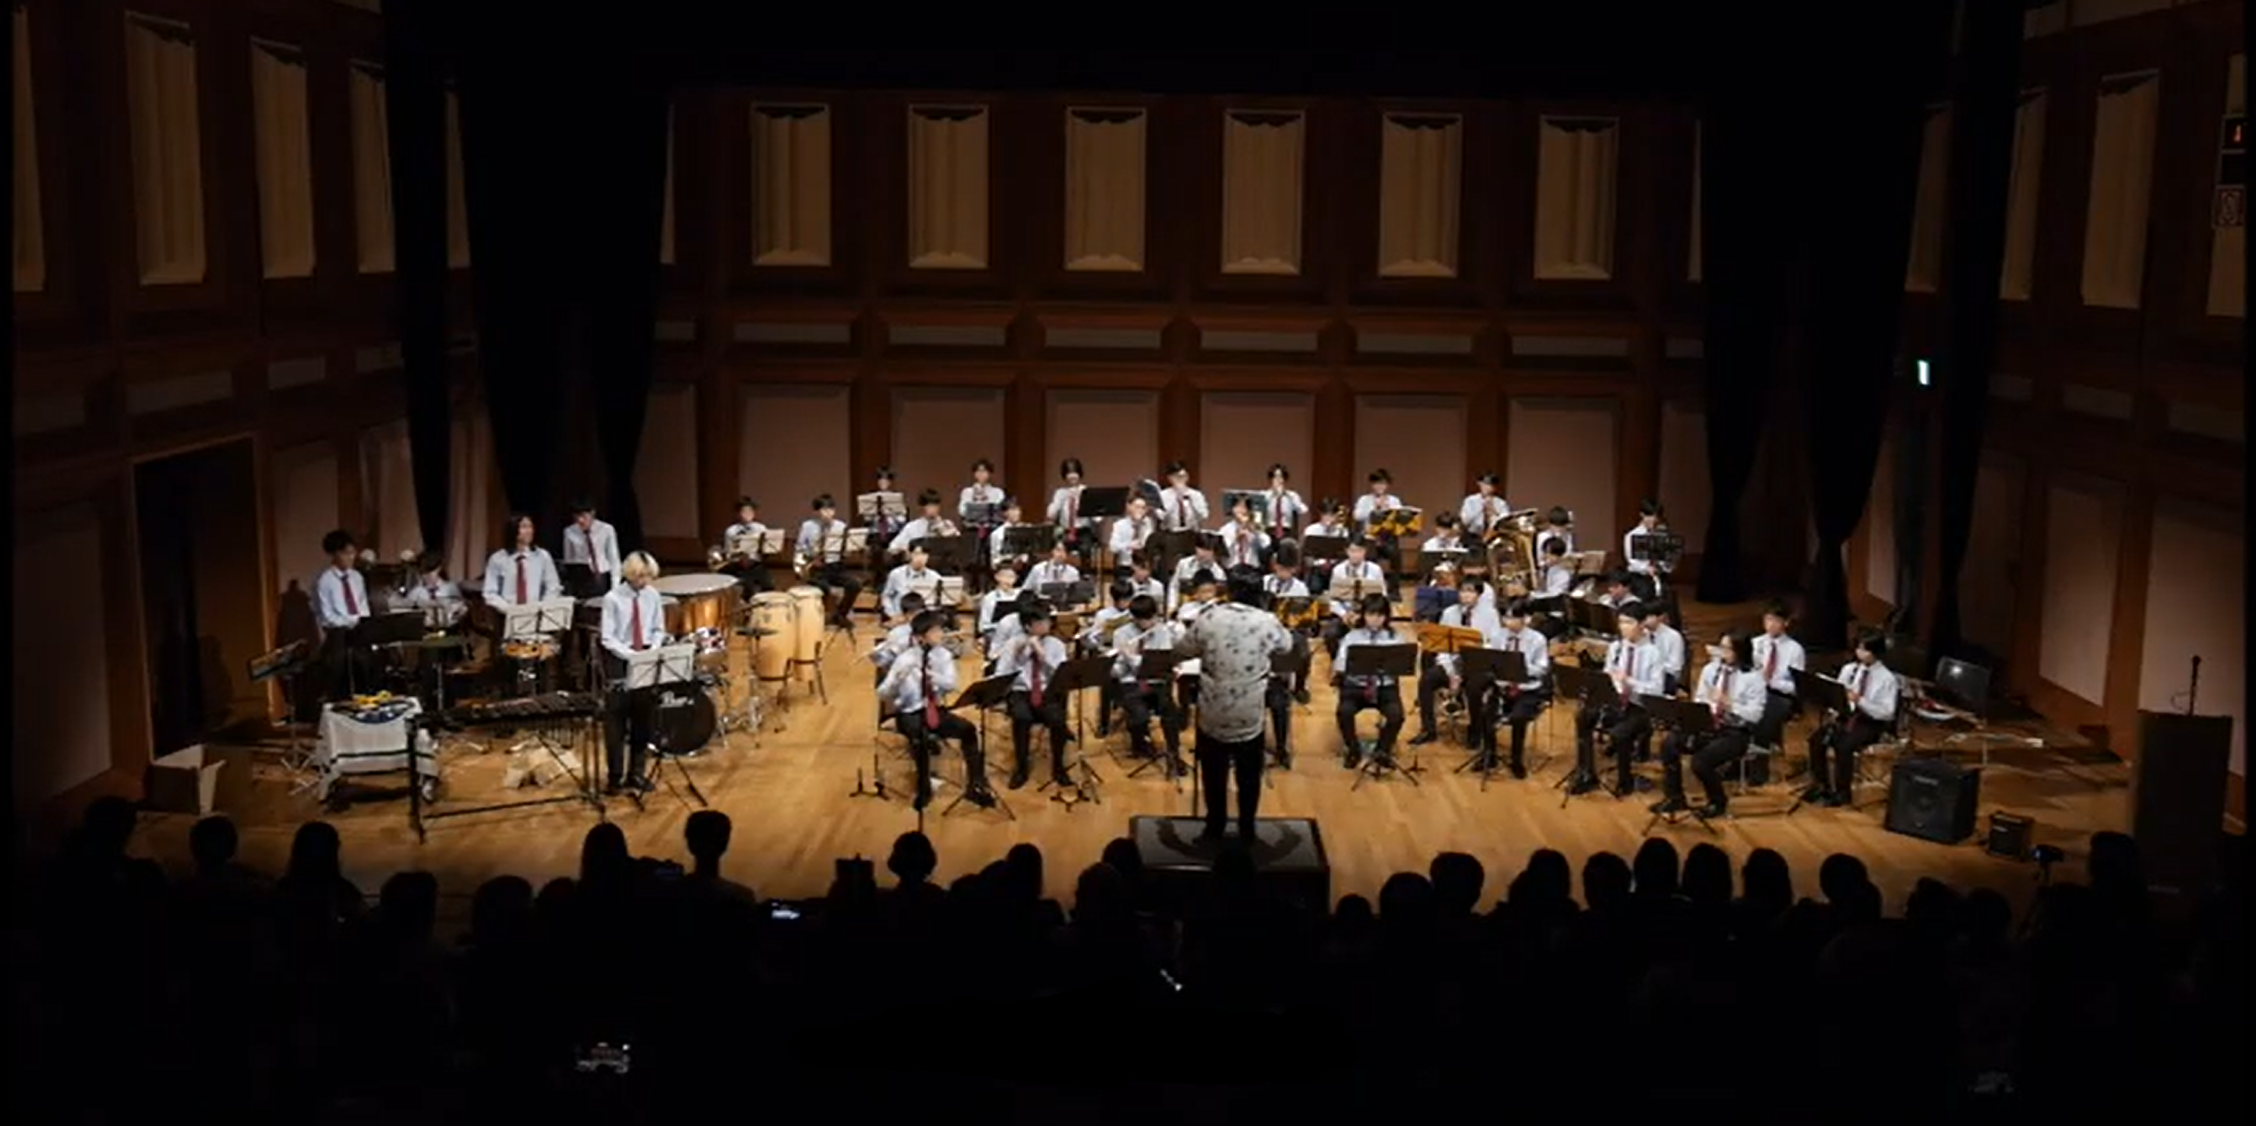
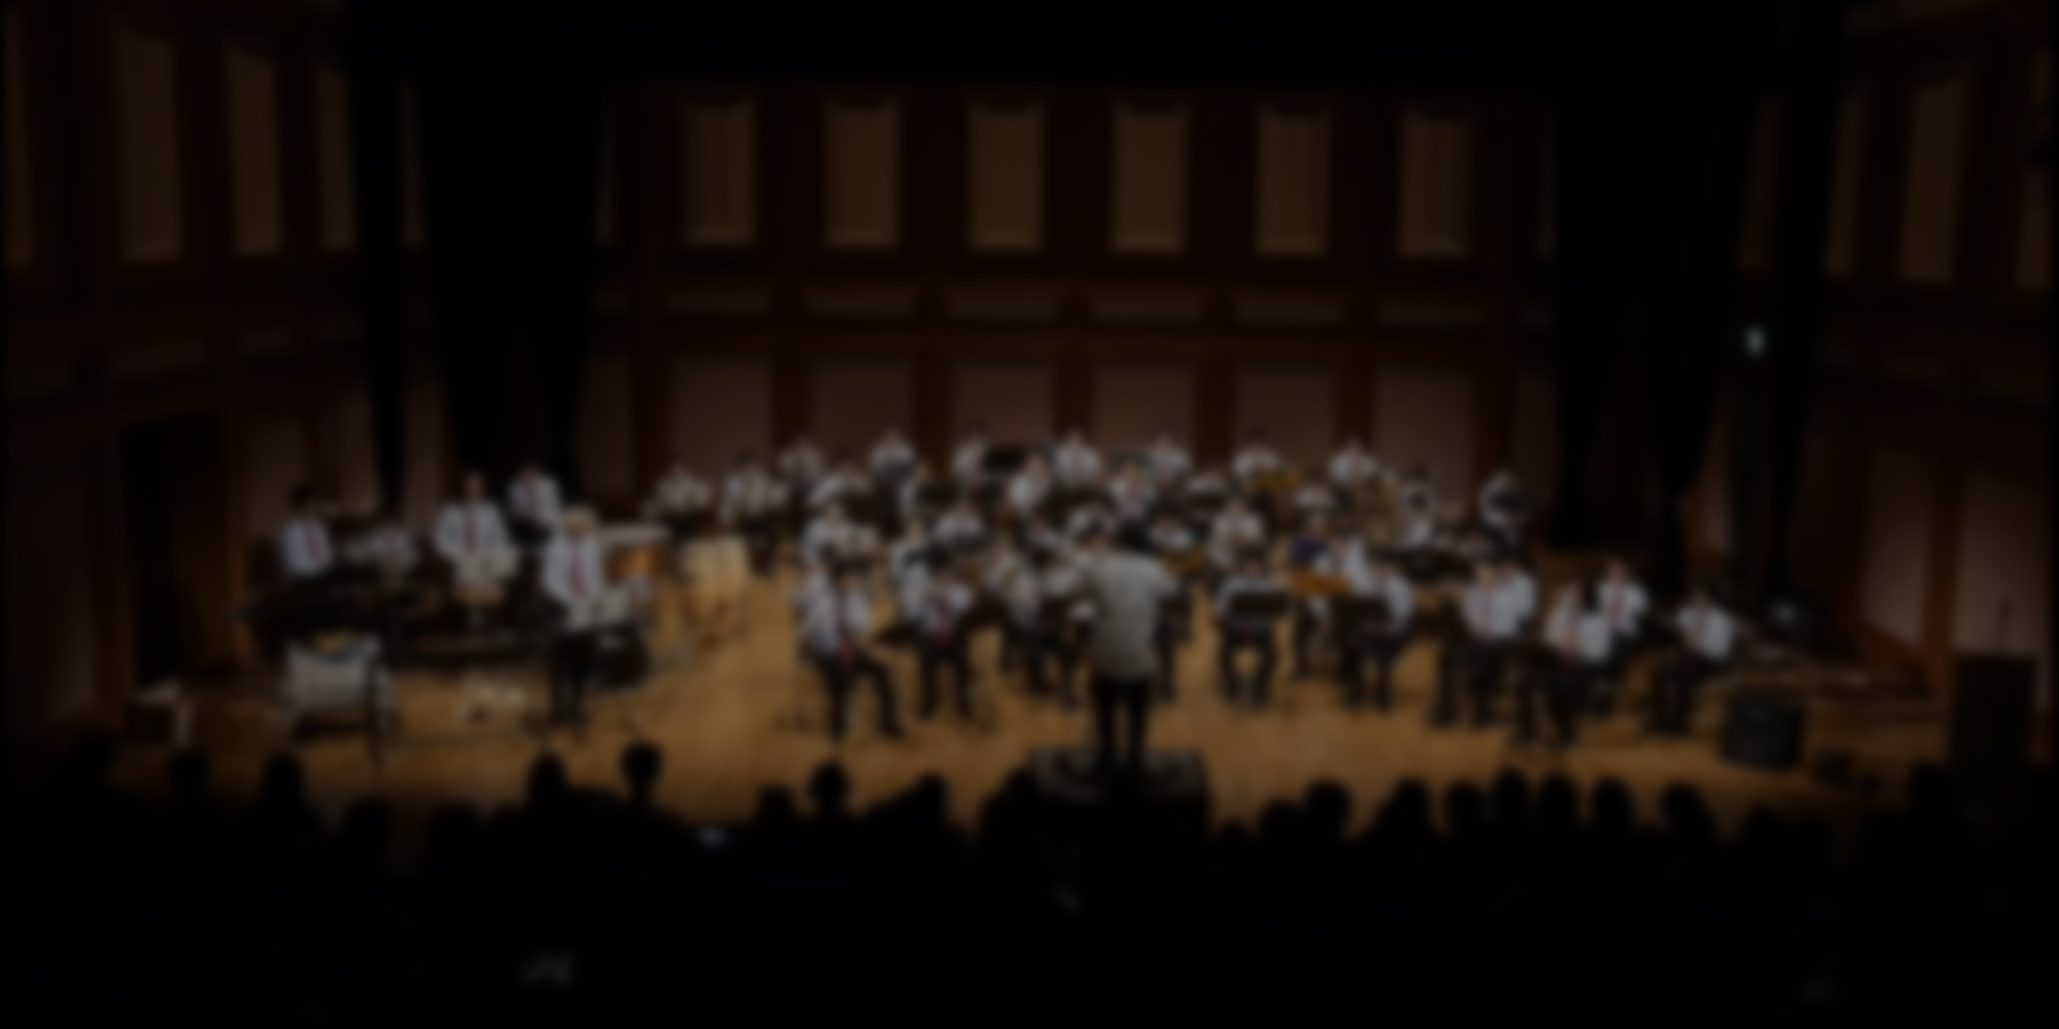
1044

diff --git a/concert.html b/concert.html
@@ -57,8 +57,7 @@
             </div>
         </header>
         <section id="hero">
-            <img src="images/top.png" alt="トップロゴ" id="hero-logo">
-            <h1>CONCERT</h1>
+            <h1 id="hero-title">CONCERT</h1>
         </section>
         <section id="about">
             <div class="about-text">
@@ -71,39 +70,6 @@
                     部活運営は生徒によって<br class="br-sp">主体的に行われており、<br class="br-sp">本ウェブサイトも<br class="br-tb">現役部員に<br class="br-sp">よって運営、更新されています。
                 </p>
             </div>
-        </section>
-        <section id="guide-menu">
-            <h1 class="fade-item title">
-                <div id="guide-menu-text">サイト案内</div>
-            </h1>
-        </section>
-        <section id="guide">
-            <table class="guide-table">
-                <tr>
-                    <td class="fade-item text">
-                        <div class="guide-if">直近の公演情報を見たい時･･･</div>
-                        <a href="concert.html" class="guide-site">CONCERT</a>
-                    </td>
-                </tr>
-                <tr>
-                    <td class="fade-item text">
-                        <div class="guide-if">今までの演奏活動や、<br class="br-sp">お知らせを確認したい時･･･</div>
-                        <a href="news.html" class="guide-site">NEWS</a>
-                    </td>
-                </tr>
-                <tr>
-                    <td class="fade-item text">
-                        <div class="guide-if">公演に関するお問い合わせや、<br class="br-sp">部員への質問がある時･･･</div>
-                        <a href="contact.html" class="guide-site">CONTACT</a>
-                    </td>
-                </tr>
-                <tr>
-                    <td class="fade-item text">
-                        <div class="guide-if">(内部生用)筑駒音楽部に<br class="br-sp">興味を持った時･･･</div>
-                        <a href="join-us.html" class="guide-site">JOIN US</a>
-                    </td>
-                </tr>
-            </table>
         </section>
         <footer>
             <p>

diff --git a/styles/concert.css b/styles/concert.css
@@ -69,13 +69,12 @@ body {
     display: none;
 }
 
-/* ヒーローセクション */
 #hero {
-    height: 100vh;
-    height: 100svh;
+    height: 80vh;
+    height: 80svh;
     width: 100%;
-    background-image: url('../images/top_background.png');
-    background-position: center;
+    background-image: url('../images/concert.png');
+    background-position: center center;
     background-size: cover;
     background-repeat: no-repeat;
     background-attachment: fixed;
@@ -86,12 +85,16 @@ body {
     overflow: hidden;
 }
 
-#hero-logo {
-    width: 90vw;
-    max-width: 640px;
-    height: auto;
-    opacity: 0;
-    transition: opacity 2s ease;
+#hero-title {
+    color: white;
+    display: flex;
+    justify-content: center;
+    align-items: center;
+    text-align: center;
+    font-weight: bolder;
+    font-size: 6rem;
+    text-shadow: 2px 2px 10px rgba(0, 0, 0, 0.5);
+    text-decoration: underline;
 }
 
 #about {
@@ -221,9 +224,8 @@ footer {
         background-attachment: scroll;
     }
 
-    #hero-logo {
-        width: 90vw;
-        height: auto;
+    #hero-title {
+        font-size: 4rem;
     }
 
     .hamburger {
@@ -347,9 +349,8 @@ footer {
         background-attachment: scroll;
     }
 
-    #hero-logo {
-        width: 95vw;
-        height: auto;
+    #hero-title {
+        font-size: 2.4rem;
     }
 
     .br-tb {
